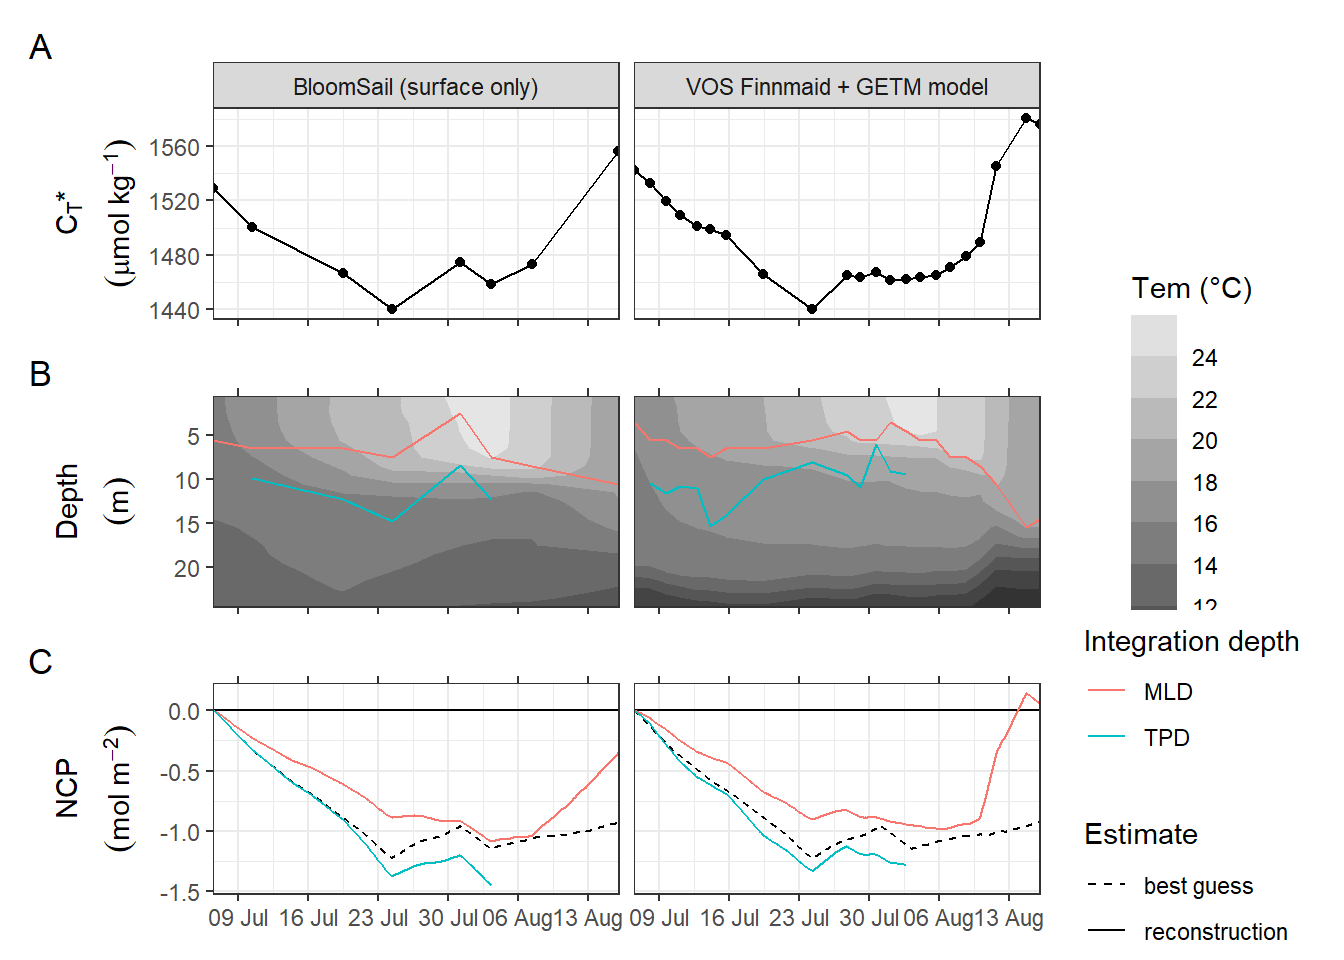
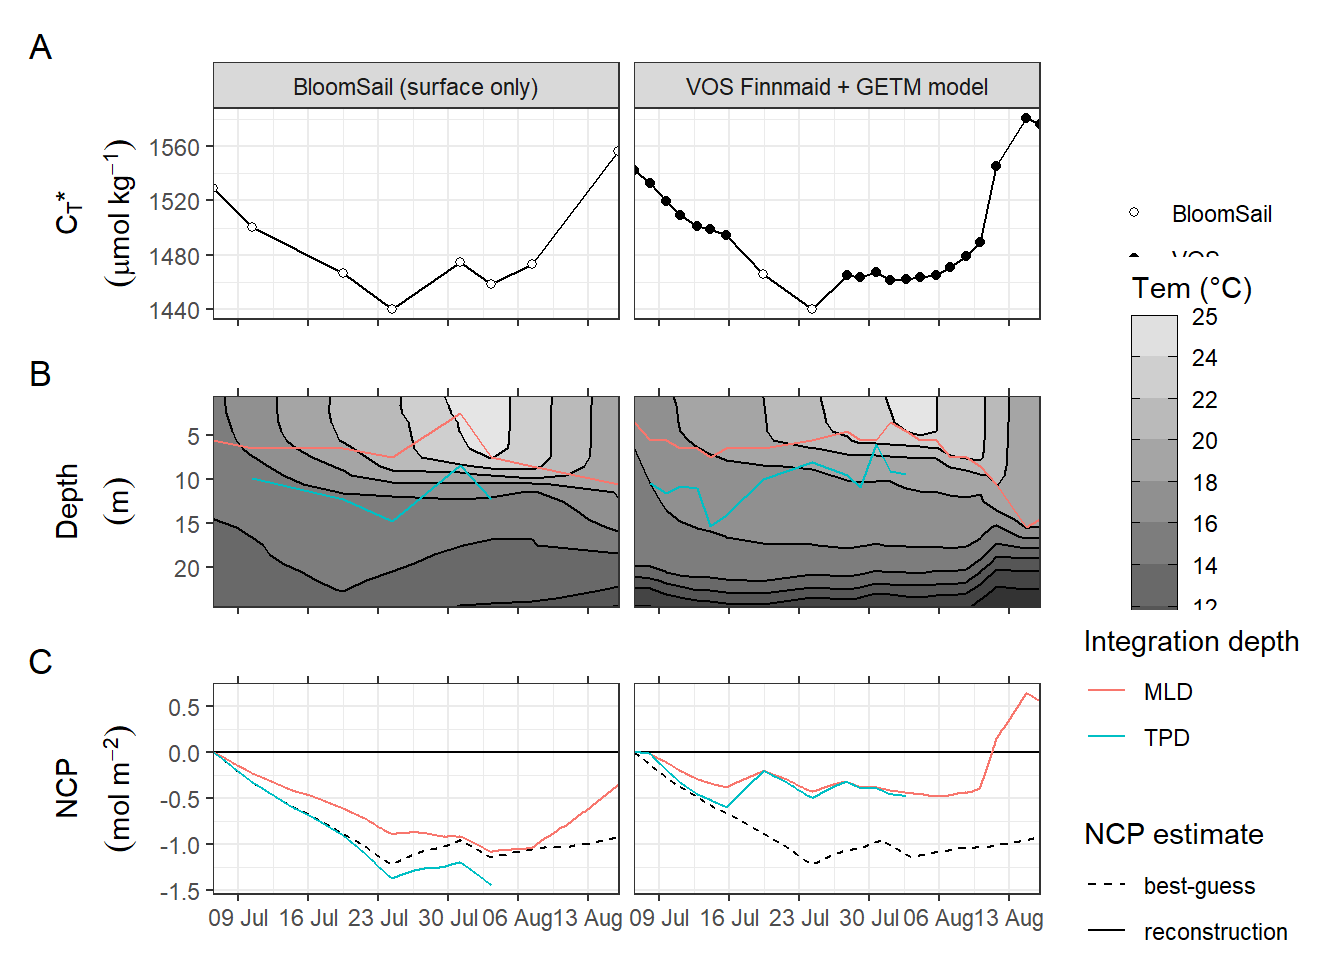
Build site.

diff --git a/docs/NCP_reconstruction.html b/docs/NCP_reconstruction.html
@@ -562,16 +562,16 @@ This reproducible <a href="http://rmarkdown.rstudio.com">R Markdown</a> analysis
 <div class="panel panel-default">
 <div class="panel-heading">
 <p class="panel-title">
-<a data-toggle="collapse" data-parent="#workflowr-checks" href="#strongRepositoryversionstrongahrefhttpsgithubcomjensdanielmuellerBloomSailtree58c16378a31941bfe3de06b3e62262333be666cbtargetblank58c1637a"> <span class="glyphicon glyphicon-ok text-success" aria-hidden="true"></span> <strong>Repository version:</strong> <a href="https://github.com/jens-daniel-mueller/BloomSail/tree/58c16378a31941bfe3de06b3e62262333be666cb" target="_blank">58c1637</a> </a>
+<a data-toggle="collapse" data-parent="#workflowr-checks" href="#strongRepositoryversionstrongahrefhttpsgithubcomjensdanielmuellerBloomSailtree1fb97c7a708f4c0c13d241cde3378dc18d526568targetblank1fb97c7a"> <span class="glyphicon glyphicon-ok text-success" aria-hidden="true"></span> <strong>Repository version:</strong> <a href="https://github.com/jens-daniel-mueller/BloomSail/tree/1fb97c7a708f4c0c13d241cde3378dc18d526568" target="_blank">1fb97c7</a> </a>
 </p>
 </div>
[2 lines of base64/hex data omitted]
 <div class="panel-body">
 <p>
 Great! You are using Git for version control. Tracking code development and connecting the code version to the results is critical for reproducibility.
 </p>
 <p>
-The results in this page were generated with repository version <a href="https://github.com/jens-daniel-mueller/BloomSail/tree/58c16378a31941bfe3de06b3e62262333be666cb" target="_blank">58c1637</a>. See the <em>Past versions</em> tab to see a history of the changes made to the R Markdown and HTML files.
+The results in this page were generated with repository version <a href="https://github.com/jens-daniel-mueller/BloomSail/tree/1fb97c7a708f4c0c13d241cde3378dc18d526568" target="_blank">1fb97c7</a>. See the <em>Past versions</em> tab to see a history of the changes made to the R Markdown and HTML files.
 </p>
 <p>
 Note that you need to be careful to ensure that all relevant files for the analysis have been committed to Git prior to generating the results (you can use <code>wflow_publish</code> or <code>wflow_git_commit</code>). workflowr only checks the R Markdown file, but you know if there are other scripts or data files that it depends on. Below is the status of the Git repository when the results were generated:
@@ -586,54 +586,7 @@ Ignored files:
     Ignored:    output/Plots/Figures_publication/.tmp.drivedownload/
 
 Untracked files:
-    Untracked:  output/Plots/Figures_publication/Appendix/Fig_A1.pdf
-    Untracked:  output/Plots/Figures_publication/Appendix/Fig_A1.png
-    Untracked:  output/Plots/Figures_publication/Appendix/Fig_A2.pdf
-    Untracked:  output/Plots/Figures_publication/Appendix/Fig_A2.png
-    Untracked:  output/Plots/Figures_publication/Appendix/Fig_A3.pdf
-    Untracked:  output/Plots/Figures_publication/Appendix/Fig_A3.png
-    Untracked:  output/Plots/Figures_publication/Appendix/Fig_A4.pdf
-    Untracked:  output/Plots/Figures_publication/Appendix/Fig_A4.png
-    Untracked:  output/Plots/Figures_publication/Appendix/Fig_A5_V1.pdf
-    Untracked:  output/Plots/Figures_publication/Appendix/Fig_A5_V1.png
-    Untracked:  output/Plots/Figures_publication/Appendix/Fig_A5_V2.pdf
-    Untracked:  output/Plots/Figures_publication/Appendix/Fig_A5_V2.png
-    Untracked:  output/Plots/Figures_publication/Appendix/Fig_A6.pdf
-    Untracked:  output/Plots/Figures_publication/Appendix/Fig_A6.png
-    Untracked:  output/Plots/Figures_publication/Appendix/Fig_A7.pdf
-    Untracked:  output/Plots/Figures_publication/Appendix/Fig_A7.png
-    Untracked:  output/Plots/Figures_publication/Appendix/Fig_A8.pdf
-    Untracked:  output/Plots/Figures_publication/Appendix/Fig_A8.png
-
-Unstaged changes:
-    Modified:   code/Workflowr_project_managment.R
-    Deleted:    output/Plots/Figures_publication/Appendix/Fig_S1.pdf
-    Deleted:    output/Plots/Figures_publication/Appendix/Fig_S1.png
-    Deleted:    output/Plots/Figures_publication/Appendix/Fig_S2.pdf
-    Deleted:    output/Plots/Figures_publication/Appendix/Fig_S2.png
-    Deleted:    output/Plots/Figures_publication/Appendix/Fig_S3.pdf
-    Deleted:    output/Plots/Figures_publication/Appendix/Fig_S3.png
-    Deleted:    output/Plots/Figures_publication/Appendix/Fig_S4.pdf
-    Deleted:    output/Plots/Figures_publication/Appendix/Fig_S4.png
-    Deleted:    output/Plots/Figures_publication/Appendix/Fig_S5.pdf
-    Deleted:    output/Plots/Figures_publication/Appendix/Fig_S5.png
-    Deleted:    output/Plots/Figures_publication/Appendix/Fig_S6.pdf
-    Deleted:    output/Plots/Figures_publication/Appendix/Fig_S6.png
-    Deleted:    output/Plots/Figures_publication/Appendix/Fig_S7.pdf
-    Deleted:    output/Plots/Figures_publication/Appendix/Fig_S7.png
-    Deleted:    output/Plots/Figures_publication/Appendix/Fig_S8.pdf
-    Deleted:    output/Plots/Figures_publication/Appendix/Fig_S8.png
-    Modified:   output/Plots/Figures_publication/Article/Fig_1.pdf
-    Modified:   output/Plots/Figures_publication/Article/Fig_1.png
-    Modified:   output/Plots/Figures_publication/Article/Fig_2.pdf
-    Modified:   output/Plots/Figures_publication/Article/Fig_2.png
-    Modified:   output/Plots/Figures_publication/Article/Fig_3.pdf
-    Modified:   output/Plots/Figures_publication/Article/Fig_3.png
-    Modified:   output/Plots/Figures_publication/Article/Fig_4.pdf
-    Modified:   output/Plots/Figures_publication/Article/Fig_4.png
-    Modified:   output/Plots/Figures_publication/Article/Fig_5.pdf
-    Modified:   output/Plots/merging_interpolation/Zero_time_synchronization.pdf
-    Modified:   output/Plots/response_time/tau_determination_pCO2_corr_flushperiods_nls.pdf
+    Untracked:  output/Plots/Figures_publication/Appendix/
 
 </code></pre>
 <p>
@@ -672,6 +625,40 @@ Message
 </tr>
 </thead>
 <tbody>
+<tr>
+<td>
+Rmd
+</td>
+<td>
+<a href="https://github.com/jens-daniel-mueller/BloomSail/blob/1fb97c7a708f4c0c13d241cde3378dc18d526568/analysis/NCP_reconstruction.Rmd" target="_blank">1fb97c7</a>
+</td>
+<td>
+jens-daniel-mueller
+</td>
+<td>
+2021-01-05
+</td>
+<td>
+revised figure 6
+</td>
+</tr>
+<tr>
+<td>
+html
+</td>
+<td>
+<a href="https://rawcdn.githack.com/jens-daniel-mueller/BloomSail/42772350da587eaa73fdee8fcfe6ba35d9ff90e9/docs/NCP_reconstruction.html" target="_blank">4277235</a>
+</td>
+<td>
+jens-daniel-mueller
+</td>
+<td>
+2021-01-05
+</td>
+<td>
+Build site.
+</td>
+</tr>
 <tr>
 <td>
 Rmd
@@ -2323,7 +2310,7 @@ rm(fm_ID, fm, tm_gap, tm_profiles_ID_long_surface, tm_profiles)</code></pre>
 <h2><span class="header-section-number">5.1</span> Merge fm and gt</h2>
 <pre class="r"><code>fm_tm_ID_wide &lt;- fm_tm_ID %&gt;%
   filter(var %in% c(&quot;nCT&quot;)) %&gt;%
-  select(date_time_ID, var, value) %&gt;%
+  select(date_time_ID, var, sensor, value) %&gt;%
   pivot_wider(values_from = value, names_from = var)
 
 
@@ -2356,6 +2343,9 @@ rm(fm_tm_ID_wide, fm_tm_ID, gt_3d_int)</code></pre>
 
 fm_gt &lt;- fm_gt %&gt;%
   mutate(source = &quot;fm&quot;)
+
+tm_profiles_ID &lt;- tm_profiles_ID %&gt;% 
+  mutate(sensor = &quot;BloomSail&quot;)
 
 tm_fm_gt &lt;- bind_rows(tm_profiles_ID, fm_gt)
 
@@ -2771,12 +2761,8 @@ p_hov_dep &lt;-
   ggplot() +
   geom_contour_fill(aes(date_time_ID, dep, z = tem),
                     breaks = MakeBreaks(bin)) +
-  # geom_path(
-  #   data = CPD,
-  #   aes(date_time_ID, i_dep),
-  #   col = &quot;white&quot;,
-  #   linetype = 2
-  # ) +
+  geom_contour2(aes(date_time_ID, dep, z = tem),
+                    breaks = MakeBreaks(bin)) +
   geom_path(data = i_dep %&gt;% filter(i_res == &quot;daily&quot; &amp; i_dep != 0),
             aes(date_time_ID, i_dep, col = i_method)) +
   scale_fill_gradient(
@@ -2786,7 +2772,11 @@ p_hov_dep &lt;-
     high = &quot;grey90&quot;,
     low = &quot;grey20&quot;
   ) +
-  guides(fill = guide_colorsteps(barheight = unit(5.5, &quot;cm&quot;))) +
+  guides(fill = guide_colorsteps(barheight = unit(5.5, &quot;cm&quot;),
+                                 frame.colour = &quot;black&quot;,
+                                 show.limits = TRUE,
+                                 ticks = TRUE,
+                                 ticks.colour = &quot;black&quot;)) +
   scale_color_discrete(name = &quot;Reconstruction&quot;, guide = FALSE) +
   scale_y_reverse() +
   scale_x_datetime(date_breaks = &quot;week&quot;,
@@ -2813,13 +2803,13 @@ p_hov_dep</code></pre>
 <h1><span class="header-section-number">7</span> Surface obs + integration depths</h1>
 <pre class="r"><code>tm_fm_gt_surface &lt;- tm_fm_gt %&gt;%
   filter(dep &lt; parameters$surface_dep) %&gt;%
-  select(source, date_time_ID, nCT) %&gt;%
-  group_by(source, date_time_ID) %&gt;%
+  select(source, date_time_ID, sensor, nCT) %&gt;%
+  group_by(source, date_time_ID, sensor) %&gt;%
   summarise(nCT = mean(nCT, na.rm = TRUE)) %&gt;%
   ungroup()
 
 tm_fm_gt_surface &lt;- tm_fm_gt_surface %&gt;%
-  group_by(source) %&gt;%
+  group_by(source, sensor) %&gt;%
   arrange(date_time_ID) %&gt;%
   mutate(
     date_time_ID_diff = as.numeric(date_time_ID - lag(date_time_ID)),
@@ -2838,7 +2828,7 @@ rm(tm_fm_gt_surface)</code></pre>
   mutate(CT_i_diff = nCT_diff * i_dep)
 
 iCT &lt;- iCT %&gt;% 
-  group_by(source, i_method, i_res) %&gt;%
+  group_by(source, sensor, i_method, i_res) %&gt;%
   arrange(date_time_ID) %&gt;%
   mutate(nCT_i_cum = cumsum(CT_i_diff/1000)) %&gt;% 
   ungroup()</code></pre>
@@ -2870,11 +2860,16 @@ NCP_flux_int &lt;- NCP_flux %&gt;%
   fill(flux_cum) %&gt;%
   mutate(nCT_i_flux_cum = nCT_i_cum + flux_cum) %&gt;%
   ungroup()</code></pre>
-<pre class="r"><code>p_nCT &lt;- iCT %&gt;%
-  ggplot(aes(date_time_ID, nCT)) +
-  geom_point() +
-  geom_path() +
+<pre class="r"><code>iCT &lt;- iCT %&gt;% 
+  mutate(sensor = if_else(sensor == &quot;BloomSail&quot;, sensor, &quot;VOS&quot;))
+
+p_nCT &lt;- iCT %&gt;%
+  ggplot() +
+  geom_path(aes(date_time_ID, nCT)) +
+  geom_point(aes(date_time_ID, nCT, fill = sensor), shape = 21) +
   scale_color_discrete(name = &quot;Reconstruction&quot;) +
+  scale_fill_manual(values = c(&quot;white&quot;, &quot;black&quot;),
+                    name = &quot;&quot;) +
   scale_x_datetime(breaks = &quot;week&quot;,
                    date_labels = &quot;%d %b&quot;,
                    expand = c(0, 0)) +
@@ -2946,7 +2941,7 @@ p_NCP &lt;- NCP_flux_int %&gt;%
   ggplot() +
   geom_hline(yintercept = 0) +
   geom_path(data = tm_NCP_cum,
-            aes(date_time, nCT_i_flux_mix_cum, linetype = &quot;best guess&quot;),
+            aes(date_time, nCT_i_flux_mix_cum, linetype = &quot;best-guess&quot;),
             col = &quot;black&quot;) +
   geom_path(aes(
     date_time,
@@ -2961,7 +2956,7 @@ p_NCP &lt;- NCP_flux_int %&gt;%
     sec.axis = dup_axis(),
     expand = c(0, 0)
   ) +
-  scale_linetype_manual(name = &quot;Estimate&quot;,
+  scale_linetype_manual(name = &quot;NCP estimate&quot;,
                         values = c(2,1)) +
   facet_wrap( ~ source) +
   labs(y = expression(atop(NCP, (mol ~ m ^ {
@@ -3038,14 +3033,14 @@ loaded via a namespace (and not attached):
 [25] scales_1.1.1       whisker_0.4        later_1.1.0.1      git2r_0.27.1      
 [29] generics_0.1.0     farver_2.0.3       ellipsis_0.3.1     withr_2.3.0       
 [33] cli_2.2.0          magrittr_2.0.1     crayon_1.3.4       readxl_1.3.1      
-[37] evaluate_0.14      ps_1.5.0           fs_1.5.0           fansi_0.4.1       
-[41] xml2_1.3.2         tools_4.0.3        data.table_1.13.6  hms_0.5.3         
-[45] lifecycle_0.2.0    munsell_0.5.0      reprex_0.3.0       isoband_0.2.3     
-[49] compiler_4.0.3     rlang_0.4.10       grid_4.0.3         rstudioapi_0.13   
-[53] labeling_0.4.2     rmarkdown_2.6      gtable_0.3.0       DBI_1.1.0         
-[57] R6_2.5.0           knitr_1.30         utf8_1.1.4         rprojroot_2.0.2   
-[61] stringi_1.5.3      Rcpp_1.0.5         vctrs_0.3.6        dbplyr_2.0.0      
-[65] tidyselect_1.1.0   xfun_0.19         </code></pre>
+[37] memoise_1.1.0      evaluate_0.14      ps_1.5.0           fs_1.5.0          
+[41] fansi_0.4.1        xml2_1.3.2         tools_4.0.3        data.table_1.13.6 
+[45] hms_0.5.3          lifecycle_0.2.0    munsell_0.5.0      reprex_0.3.0      
+[49] isoband_0.2.3      compiler_4.0.3     rlang_0.4.10       grid_4.0.3        
+[53] rstudioapi_0.13    labeling_0.4.2     rmarkdown_2.6      gtable_0.3.0      
+[57] DBI_1.1.0          R6_2.5.0           knitr_1.30         utf8_1.1.4        
+[61] rprojroot_2.0.2    stringi_1.5.3      Rcpp_1.0.5         vctrs_0.3.6       
+[65] dbplyr_2.0.0       tidyselect_1.1.0   xfun_0.19         </code></pre>
 </div>
 </div>
 
